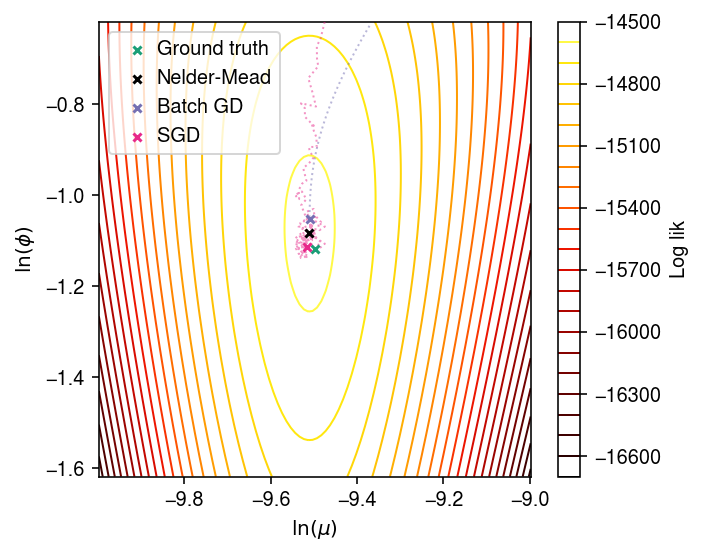
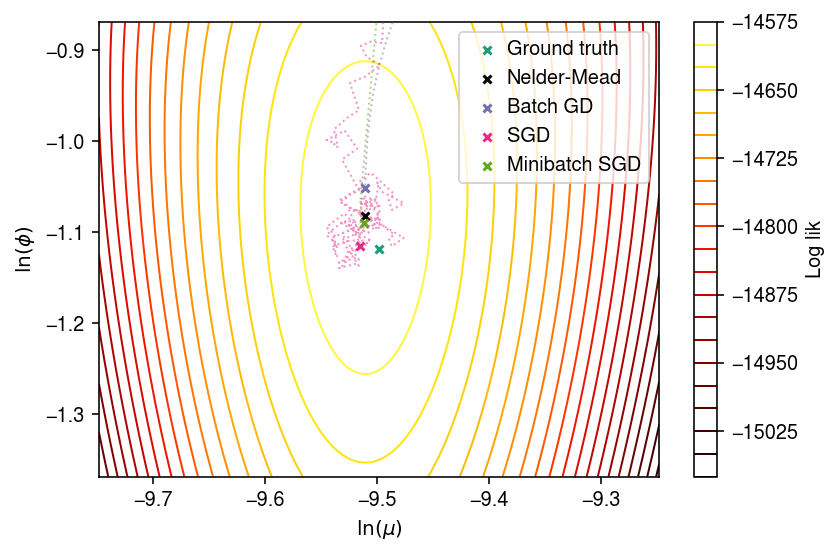
Look at minibatch SGD

Changed region(s): [[0.0, 0.0, 0.9872, 0.9189], [0.2393, 0.8883, 0.5385, 0.9802], [0.4188, 0.827, 0.4487, 0.8577]]

diff --git a/docs/gof.html b/docs/gof.html
@@ -1,7 +1,7 @@
 <!DOCTYPE html>
 <html lang="en">
 <head>
-<!-- 2019-11-21 Thu 21:03 -->
+<!-- 2019-11-23 Sat 11:41 -->
 <meta charset="utf-8">
 <meta name="viewport" content="width=device-width, initial-scale=1">
 <title>Goodness of fit of deconvolved distributions</title>
@@ -262,7 +262,7 @@ for the JavaScript code in this tag.
 <li><a href="#setup">Setup</a></li>
 <li><a href="#org9458460">Methods</a>
 <ul>
-<li><a href="#org21488e1">Test for goodness of fit</a></li>
+<li><a href="#orgfa3c26f">Test for goodness of fit</a></li>
 <li><a href="#org1e959d4">Poisson-unimodal goodness of fit</a></li>
 <li><a href="#orgfd5c235">Data</a></li>
 </ul>
@@ -290,16 +290,19 @@ scRNA-seq. However, this is not the simplest way to support our key results:
 </p>
 
 <ol class="org-ol">
-<li>For spike-ins (control experiments), the data do not depart from a
+<li>For control experiments, the data do not significantly depart from a
 unimodal distribution for expression variation (meaning, neither
 sequencing variation nor expression variation involve a point mass on
 zero).</li>
-<li>For most genes, in most data sets, a Gamma assumption appears sufficient
-(meaning, the data do not significantly depart from the fitted model).</li>
+<li>For most genes, in most data sets, the data do not significantly depart
+from a Gamma assumption.</li>
+<li>When the data do significantly depart from a Gamma assumption, they often
+do not depart from a unimodal assumption (meaning, departures from Gamma
+are often not due to excess zeros).</li>
 </ol>
 
 <p>
-Here, we directly test for the goodness of fit of the estimated distribution
+Here, we directly test for the goodness of fit of the estimated distributions
 (as in <a href="https://dx.doi.org/10.1371/journal.pgen.1008045">Sarkar et al. 2019</a>).
 </p>
 </div>
@@ -317,7 +320,8 @@ Here, we directly test for the goodness of fit of the estimated distribution
 </div>
 
 <div class="org-src-container">
-<pre class="src src-ipython"><span class="org-keyword">import</span> os
+<pre class="src src-ipython"><span class="org-keyword">import</span> anndata
+<span class="org-keyword">import</span> os
 <span class="org-keyword">import</span> scipy.io <span class="org-keyword">as</span> si
 <span class="org-keyword">import</span> scipy.special <span class="org-keyword">as</span> sp
 <span class="org-keyword">import</span> scipy.stats <span class="org-keyword">as</span> st
@@ -345,9 +349,9 @@ Here, we directly test for the goodness of fit of the estimated distribution
 <h2 id="org9458460">Methods</h2>
 <div class="outline-text-2" id="text-org9458460">
 </div>
-<div id="outline-container-org21488e1" class="outline-3">
-<h3 id="org21488e1">Test for goodness of fit</h3>
-<div class="outline-text-3" id="text-org21488e1">
+<div id="outline-container-orgfa3c26f" class="outline-3">
+<h3 id="orgfa3c26f">Test for goodness of fit</h3>
+<div class="outline-text-3" id="text-orgfa3c26f">
 <p>
 The key idea underlying our test for goodness of fit is the fact that if
 \(x_{i} \sim F(\cdot)\), then \(F(x_{i}) \sim \operatorname{Uniform}(0,
@@ -373,7 +377,7 @@ distribution \(F_{i}\):
 </p>
 
 <p>
-\[ F_i(x_i) = \sum_{k=0}^{x_i} \int_0^\infty \operatorname{Poisson}(k; s_i
+\[ F_i(x_i) = \sum_{k=0}^{x_i} \int_0^\infty \operatorname{Poisson}(k; x_i^+
   \lambda_i) g(d\lambda_i) \]
 </p>
 
@@ -394,7 +398,7 @@ We parameterized the Poisson-unimodal model as:
 </p>
 
 \begin{align*}
-  x_i &\sim \operatorname{Poisson}(s_i \lambda_i)\\
+  x_i &\sim \operatorname{Poisson}(x_i^+ \lambda_i)\\
   \lambda_i &\sim \sum_k w_k \operatorname{Uniform}(\lambda_0, a_k)
 \end{align*}
 
@@ -433,7 +437,7 @@ For the Poisson-unimodal model, we have (for one component):
 </p>
 
 \begin{align*}
-  x_i &\sim \operatorname{Poisson}(s_i \lambda_i)\\
+  x_i &\sim \operatorname{Poisson}(x_i^+ \lambda_i)\\
   \lambda_i &\sim \operatorname{Uniform}(a, b)
 \end{align*}
 
@@ -442,11 +446,11 @@ and:
 </p>
 
 \begin{align*}
-  \Pr(x_i = x) &= \int_0^\infty \operatorname{Poisson}(x_i; s_i \lambda_i) \operatorname{Uniform}(a, b) d\lambda_i\\
-  &= \frac{1}{b - a} \int_a^b \operatorname{Poisson}(x_i; s_i \lambda_i) d\lambda_i\\
-  &= \frac{1}{s_i (b - a)} \int_a^b \frac{s_i^{x_i + 1}}{\Gamma(x_i + 1)} \lambda_i^{(x_i + 1) - 1}\exp(-s_i\lambda_i) d\lambda_i\\
-  &= \frac{1}{s_i (b - a)} \left( F_\Gamma(b; x_i + 1, s_i) - F_\Gamma(a, x_i + 1, s_i) \right)\\
-  \Pr(x_i \leq x) &= \sum_{k=0}^{x} \frac{1}{s_i (b - a)} \left( F_\Gamma(b; k + 1, s_i) - F_\Gamma(a, k + 1, s_i) \right)\\
+  \Pr(x_i = x) &= \int_0^\infty \operatorname{Poisson}(x_i; x_i^+ \lambda_i) \operatorname{Uniform}(a, b) d\lambda_i\\
+  &= \frac{1}{b - a} \int_a^b \operatorname{Poisson}(x_i; x_i^+ \lambda_i) d\lambda_i\\
+  &= \frac{1}{x_i^+ (b - a)} \int_a^b \frac{x_i^+^{x_i + 1}}{\Gamma(x_i + 1)} \lambda_i^{(x_i + 1) - 1}\exp(-x_i^+\lambda_i) d\lambda_i\\
+  &= \frac{1}{x_i^+ (b - a)} \left( F_\Gamma(b; x_i + 1, x_i^+) - F_\Gamma(a, x_i + 1, x_i^+) \right)\\
+  \Pr(x_i \leq x) &= \sum_{k=0}^{x} \frac{1}{x_i^+ (b - a)} \left( F_\Gamma(b; k + 1, x_i^+) - F_\Gamma(a, k + 1, x_i^+) \right)\\
 \end{align*}
 
 <p>
@@ -620,12 +624,12 @@ Draw data following the Poisson-point Gamma distribution:
 </p>
 
 \begin{align*}
-  x_i &\sim \operatorname{Poisson}(s_i \lambda_i)\\
+  x_i &\sim \operatorname{Poisson}(x_i^+ \lambda_i)\\
   \lambda_i &\sim \pi \delta_0(\cdot) + (1 - \pi) \operatorname{Gamma}(1/\phi, 1/(\mu\phi))
 \end{align*}
 
 <p>
-Draw simulation parameters \(s_i=10^5, \ln\mu, \ln\phi\) from typical values
+Draw simulation parameters \(x_i^+=10^5, \ln\mu, \ln\phi\) from typical values
 (Sarkar et al. 2019).
 </p>
 
@@ -756,8 +760,8 @@ plt.tight_layout()
 </div>
 </div>
 
-<div id="outline-container-org5452db7" class="outline-3">
-<h3 id="gof"><a id="org5452db7"></a>Test for goodness of fit</h3>
+<div id="outline-container-orgced99d4" class="outline-3">
+<h3 id="gof"><a id="orgced99d4"></a>Test for goodness of fit</h3>
 <div class="outline-text-3" id="text-gof">
 <p>
 Run the GPU-based methods.
@@ -850,16 +854,22 @@ tracked down bug.)
 <div class="org-src-container">
 <pre class="src src-ipython"><span class="org-keyword">for</span> k <span class="org-keyword">in</span> <span class="org-builtin">list</span>(data.keys())[6:12]:
   <span class="org-variable-name">x</span> = data[k]()
-  x.loc[:,sig.loc[k, <span class="org-string">'gene'</span>]].to_csv(f<span class="org-string">'/scratch/midway2/aksarkar/modes/unimodal-data/{k}.txt.gz'</span>, sep=<span class="org-string">'\t'</span>, compression=<span class="org-string">'gzip'</span>)
+  <span class="org-variable-name">s</span> = x.<span class="org-builtin">sum</span>(axis=1)
+  <span class="org-comment-delimiter"># </span><span class="org-comment">Important: we need to keep around the size factors computed using all the</span>
+  <span class="org-comment-delimiter"># </span><span class="org-comment">genes</span>
+  <span class="org-variable-name">t</span> = anndata.AnnData(x.loc[:,sig.loc[k, <span class="org-string">'gene'</span>]], var=x.columns)
+  <span class="org-variable-name">t.obs</span> = s.to_frame().rename({0: <span class="org-string">'size'</span>}, axis=1)
+  t.write(f<span class="org-string">'/scratch/midway2/aksarkar/modes/unimodal-data/{k}.h5ad'</span>)
 </pre>
 </div>
 
 <div class="org-src-container">
-<pre class="src src-sh">sbatch --partition=broadwl -n1 -c28 --exclusive --job-name=gof --time=24:00:00 -a 7-11
+<pre class="src src-sh">sbatch --partition=broadwl -n1 -c28 --exclusive --job-name=gof --time=12:00:00 -a 8
 <span class="org-comment-delimiter">#</span><span class="org-comment">!/bin/bash</span>
 <span class="org-builtin">source</span> activate scmodes
 python &lt;&lt;EOF
 <span class="org-sh-heredoc">&lt;&lt;imports&gt;&gt;</span>
+import anndata
 import multiprocessing as mp
 import os
 &lt;&lt;data&gt;&gt;
@@ -868,9 +878,12 @@ import os
 <span class="org-sh-heredoc">with mp.Pool(maxtasksperchild=20) as pool:</span>
 <span class="org-sh-heredoc">  # Important: this needs to be done after initializing the pool to avoid</span>
 <span class="org-sh-heredoc">  # memory duplication</span>
-<span class="org-sh-heredoc">  x = pd.read_csv(f'/scratch/midway2/aksarkar/modes/unimodal-data/{task}.txt.gz', sep='\t', index_col=0)</span>
-<span class="org-sh-heredoc">  res = scmodes.benchmark.evaluate_gof(x, pool=pool, methods=['unimodal'])</span>
-<span class="org-sh-heredoc">  res.index = x.columns</span>
+<span class="org-sh-heredoc">  x = anndata.read_h5ad(f'/scratch/midway2/aksarkar/modes/unimodal-data/{task}.h5ad')</span>
+<span class="org-sh-heredoc">  res = scmodes.benchmark.evaluate_gof(pd.DataFrame(x.X, index=x.obs.index, columns=x.var.index), </span>
+<span class="org-sh-heredoc">                                       s=x.obs['size'], </span>
+<span class="org-sh-heredoc">                                       pool=pool, </span>
+<span class="org-sh-heredoc">                                       methods=['unimodal'])</span>
+<span class="org-sh-heredoc">  res.index = x.var.index</span>
 <span class="org-sh-heredoc">  res.to_csv(f'/scratch/midway2/aksarkar/modes/gof/{task}-unimodal.txt.gz', compression='gzip', sep='\t')</span>
 <span class="org-sh-heredoc">EOF</span>
 </pre>
@@ -1200,7 +1213,7 @@ Populate the database to visualize all of the results.
 </div>
 <div id="postamble" class="status">
 <p class="author">Author: Abhishek Sarkar</p>
-<p class="date">Created: 2019-11-21 Thu 21:03</p>
+<p class="date">Created: 2019-11-23 Sat 11:41</p>
 <p class="validation"><a href="http://validator.w3.org/check?uri=referer">Validate</a></p>
 </div>
 </body>

diff --git a/docs/pois-gam-lik.html b/docs/pois-gam-lik.html
@@ -1,7 +1,7 @@
 <!DOCTYPE html>
 <html lang="en">
 <head>
-<!-- 2019-11-23 Sat 11:04 -->
+<!-- 2019-11-23 Sat 11:41 -->
 <meta charset="utf-8">
 <meta name="viewport" content="width=device-width, initial-scale=1">
 <title>Poisson-Gamma log likelihood surface</title>
@@ -384,6 +384,22 @@ plt.tight_layout()
 </div>
 
 <p>
+Compute the log likelihood surface in a close window about the true value.
+</p>
+
+<div class="org-src-container">
+<pre class="src src-ipython"><span class="org-variable-name">n_points</span> = 100
+<span class="org-variable-name">window</span> = 0.25
+<span class="org-variable-name">log_mu_grid</span> = np.linspace(log_mu - window, log_mu + window, n_points)
+<span class="org-variable-name">log_phi_grid</span> = np.linspace(log_phi - window, log_phi + window, n_points)
+<span class="org-variable-name">z</span> = np.zeros((n_points, n_points))
+<span class="org-keyword">for</span> x_ <span class="org-keyword">in</span> <span class="org-builtin">range</span>(n_points):
+  <span class="org-keyword">for</span> y_ <span class="org-keyword">in</span> <span class="org-builtin">range</span>(n_points):
+    <span class="org-variable-name">z</span>[y_, x_] = st.nbinom(n=np.exp(-log_phi_grid[y_]), p=1 / (1 + s * np.exp(log_mu_grid[x_] + log_phi_grid[y_]))).logpmf(x).<span class="org-builtin">sum</span>()
+</pre>
+</div>
+
+<p>
 Compute the MLE using the Nelder-Mead algorithm.
 </p>
 
@@ -419,10 +435,10 @@ Trace the parameter values through batch gradient descent, starting from
 <pre class="src src-ipython"><span class="org-variable-name">batch_trace_x</span> = np.array(batch_gd.trace)[:,0]
 <span class="org-variable-name">batch_trace_y</span> = -np.array(batch_gd.trace)[:,1]
 <span class="org-variable-name">batch_trace_keep</span> = np.logical_and.<span class="org-builtin">reduce</span>(
-  (log_mu - .5 &lt; batch_trace_x,
-   batch_trace_x &lt; log_mu + .5,
-   log_phi - .5 &lt; batch_trace_y,
-   batch_trace_y &lt; log_phi + .5))
+  (log_mu - window &lt; batch_trace_x,
+   batch_trace_x &lt; log_mu + window,
+   log_phi - window &lt; batch_trace_y,
+   batch_trace_y &lt; log_phi + window))
 </pre>
 </div>
 
@@ -442,25 +458,31 @@ Trace the parameter values through SGD, starting from \(\ln\mu = 0, \ln\phi
 <pre class="src src-ipython"><span class="org-variable-name">sgd_trace_x</span> = np.array(sgd.trace)[:,0]
 <span class="org-variable-name">sgd_trace_y</span> = -np.array(sgd.trace)[:,1]
 <span class="org-variable-name">sgd_trace_keep</span> = np.logical_and.<span class="org-builtin">reduce</span>(
-  (log_mu - .5 &lt; sgd_trace_x,
-   sgd_trace_x &lt; log_mu + .5,
-   log_phi - .5 &lt; sgd_trace_y,
-   sgd_trace_y &lt; log_phi + .5))
+  (log_mu - window &lt; sgd_trace_x,
+   sgd_trace_x &lt; log_mu + window,
+   log_phi - window &lt; sgd_trace_y,
+   sgd_trace_y &lt; log_phi + window))
 </pre>
 </div>
 
 <p>
-Compute the log likelihood surface in a close window about the true value.
+Trace the parameter values through minibatch SGD, starting from \(\ln\mu =
+   0, \ln\phi = 0\).
 </p>
 
 <div class="org-src-container">
-<pre class="src src-ipython"><span class="org-variable-name">n_points</span> = 100
-<span class="org-variable-name">log_mu_grid</span> = np.linspace(log_mu - .5, log_mu + .5, n_points)
-<span class="org-variable-name">log_phi_grid</span> = np.linspace(log_phi - .5, log_phi + .5, n_points)
-<span class="org-variable-name">z</span> = np.zeros((n_points, n_points))
-<span class="org-keyword">for</span> x_ <span class="org-keyword">in</span> <span class="org-builtin">range</span>(n_points):
-  <span class="org-keyword">for</span> y_ <span class="org-keyword">in</span> <span class="org-builtin">range</span>(n_points):
-    <span class="org-variable-name">z</span>[y_, x_] = st.nbinom(n=np.exp(-log_phi_grid[y_]), p=1 / (1 + s * np.exp(log_mu_grid[x_] + log_phi_grid[y_]))).logpmf(x).<span class="org-builtin">sum</span>()
+<pre class="src src-ipython"><span class="org-variable-name">mb_sgd</span> = tracing_gradient_descent(x, s, batch_size=100, max_epochs=100)
+</pre>
+</div>
+
+<div class="org-src-container">
+<pre class="src src-ipython"><span class="org-variable-name">mb_sgd_trace_x</span> = np.array(mb_sgd.trace)[:,0]
+<span class="org-variable-name">mb_sgd_trace_y</span> = -np.array(mb_sgd.trace)[:,1]
+<span class="org-variable-name">mb_sgd_trace_keep</span> = np.logical_and.<span class="org-builtin">reduce</span>(
+  (log_mu - window &lt; mb_sgd_trace_x,
+   mb_sgd_trace_x &lt; log_mu + window,
+   log_phi - window &lt; mb_sgd_trace_y,
+   mb_sgd_trace_y &lt; log_phi + window))
 </pre>
 </div>
 
@@ -471,15 +493,17 @@ Plot the log likelihood surface and optimization traces.
 <div class="org-src-container">
 <pre class="src src-ipython"><span class="org-variable-name">cm</span> = plt.get_cmap(<span class="org-string">'Dark2'</span>)
 plt.clf()
-plt.gcf().set_size_inches(5, 4)
+plt.gcf().set_size_inches(6, 4)
 <span class="org-variable-name">cf</span> = plt.contour(log_mu_grid, log_phi_grid, z, levels=20, cmap=colorcet.cm[<span class="org-string">'fire'</span>], linewidths=1)
 plt.scatter(log_mu, log_phi, marker=<span class="org-string">'x'</span>, c=cm(0), s=16, zorder=10, label=<span class="org-string">'Ground truth'</span>)
 plt.scatter(np.log(mu_hat), -np.log(inv_phi_hat), marker=<span class="org-string">'x'</span>, c=<span class="org-string">'k'</span>, s=16, zorder=10, label=<span class="org-string">'Nelder-Mead'</span>)
 plt.scatter(*batch_gd.opt(), marker=<span class="org-string">'x'</span>, c=cm(2), s=16, zorder=10, label=<span class="org-string">'Batch GD'</span>)
 plt.scatter(*sgd.opt(), marker=<span class="org-string">'x'</span>, c=cm(3), s=16, zorder=10, label=<span class="org-string">'SGD'</span>)
+plt.scatter(*mb_sgd.opt(), marker=<span class="org-string">'x'</span>, c=cm(4), s=16, zorder=10, label=<span class="org-string">'Minibatch SGD'</span>)
 
 plt.plot(batch_trace_x[batch_trace_keep], batch_trace_y[batch_trace_keep], c=cm(2), marker=<span class="org-constant">None</span>, ls=<span class="org-string">':'</span>, lw=1, alpha=0.5, zorder=4, label=<span class="org-constant">None</span>)
 plt.plot(sgd_trace_x[sgd_trace_keep][::100], sgd_trace_y[sgd_trace_keep][::100], c=cm(3), marker=<span class="org-constant">None</span>, lw=1, ls=<span class="org-string">':'</span>, alpha=0.5, zorder=5, label=<span class="org-constant">None</span>)
+plt.plot(mb_sgd_trace_x[mb_sgd_trace_keep][::100], mb_sgd_trace_y[mb_sgd_trace_keep][::100], c=cm(4), marker=<span class="org-constant">None</span>, lw=1, ls=<span class="org-string">':'</span>, alpha=0.5, zorder=5, label=<span class="org-constant">None</span>)
 
 <span class="org-variable-name">cb</span> = plt.colorbar(cf)
 cb.set_label(<span class="org-string">'Log lik'</span>)
@@ -501,7 +525,7 @@ plt.tight_layout()
 </div>
 <div id="postamble" class="status">
 <p class="author">Author: Abhishek Sarkar</p>
-<p class="date">Created: 2019-11-23 Sat 11:04</p>
+<p class="date">Created: 2019-11-23 Sat 11:41</p>
 <p class="validation"><a href="http://validator.w3.org/check?uri=referer">Validate</a></p>
 </div>
 </body>
